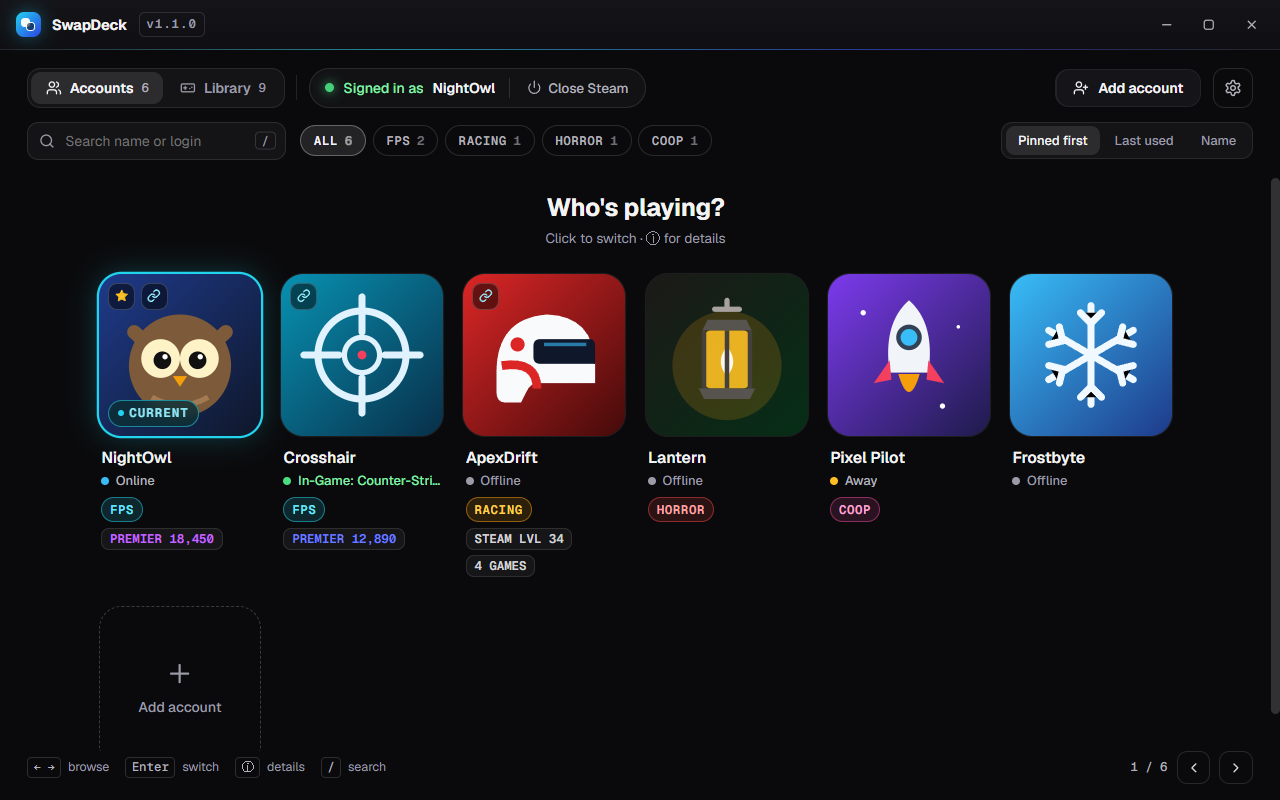
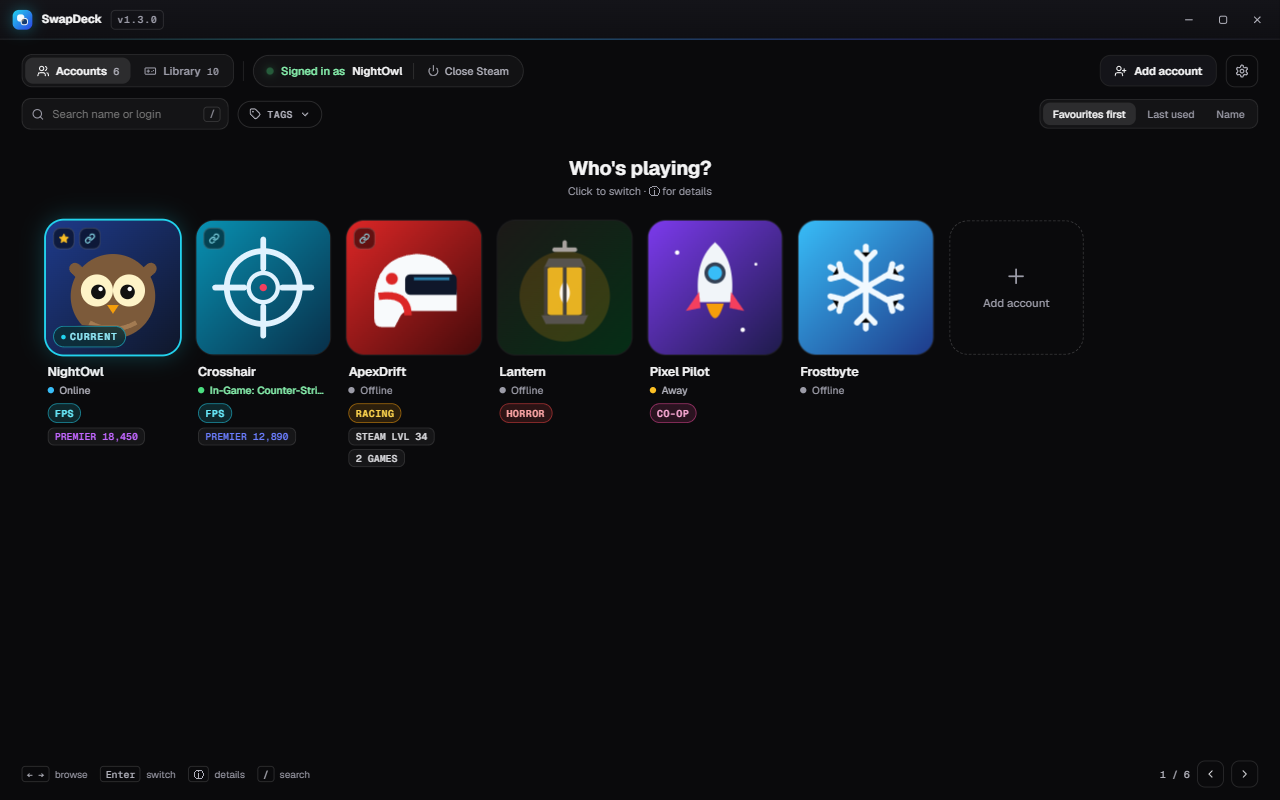
README: Steam-style game pages, patch notes reader, update badges and fresh v1.3.0 screenshots; richer browser demo

diff --git a/web/demo-backend.js b/web/demo-backend.js
@@ -3,7 +3,7 @@
 // Nothing here talks to Steam or Windows, and nothing leaves the browser.
 (() => {
   'use strict';
-  const VERSION = '1.1.0';
+  const VERSION = '1.3.0';
   const H = 3600e3, D = 24 * H, now = Date.now();
   const wait = ms => new Promise(r => setTimeout(r, ms));
   const clone = v => JSON.parse(JSON.stringify(v));
@@ -43,7 +43,7 @@
       stats: stats(21, '€3,15', 17, { premier: 12890, wins: 54, comp: { name: 'Legendary Eagle', i: 15, wins: 88 } }) }),
     acc('76561190000000102', 'apexdrift', 'ApexDrift', AV.helmet, ['racing'], 2 * D, { note: 'Sim racing. Content Manager + SimHub.', pub: pub('ApexDrift', 'offline'), stats: stats(34, '€0,00', 38) }),
     acc('76561190000000103', 'lantern_lit', 'Lantern', AV.lantern, ['horror'], 5 * D, { pub: pub('Lantern', 'offline') }),
-    acc('76561190000000105', 'pixelpilot', 'Pixel Pilot', AV.rocket, ['coop'], 14 * D, { pub: pub('Pixel Pilot', 'away') }),
+    acc('76561190000000105', 'pixelpilot', 'Pixel Pilot', AV.rocket, ['co-op'], 14 * D, { pub: pub('Pixel Pilot', 'away') }),
     acc('76561190000000106', 'frostbyte_tr', 'Frostbyte', AV.snow, [], 31 * D, { pub: pub('Frostbyte', 'offline', { trade: 'probation' }) }),
   ];
   const A = n => accounts.find(a => a.name === n);
@@ -111,6 +111,54 @@
   ];
   const gamesList = () => lib.filter(g => g.steam).map(g => ({ appid: g.appid, name: g.name, folder: g.folder, icon: null }));
   const findGame = id => lib.find(g => g.id === id);
+
+  // ---- game details (Overview) ----
+  const ACH_ICON = 'https://cdn.akamai.steamstatic.com/steamcommunity/public/images/apps/';
+  const DLC_ART = id => 'https://shared.akamai.steamstatic.com/store_item_assets/steam/apps/' + id + '/header.jpg';
+  const patchNote = (lines) => '[p]\[ ' + lines[0] + ' ][/p][list]' + lines.slice(1).map(l => '[*][p]' + l + '[/p][/*]').join('') + '[/list]';
+  const friend = (name, av, minutes) => ({ sid: '7656119' + String(1e9 + name.length * 7919 + minutes).slice(-10), name, avatar: av, minutes });
+  const DETAILS = {
+    status: { '1144200': { state: 'downloading', pct: 42, bytes: 3.4e9, staging: false } },
+    workshop: { '730': { items: 14, bytes: 1.62e9 }, '244210': { items: 37, bytes: 8.9e9 } },
+    ach: {
+      '730': { sid: A('NightOwl').sid, summary: { known: true, total: 1, unlocked: 1, latest: [{ id: 'a1', name: 'A New Beginning', desc: 'This is Counter-Strike, too.', icon: ACH_ICON + '730/f75dd04fa12445a8ec43be65fa16ff1b8d2bf82e.jpg', got: true, at: now - 410 * D }] } },
+    },
+    newsFor: {
+      '730': [
+        [20 * 60e3, 'Counter-Strike 2 Update', true, patchNote(['MAPS', 'Fixed a spot on Mirage where players could see through a wall', 'Updated the lighting in the Inferno banana area']) + patchNote(['MISC', 'Improved loading times when joining a match', 'Fixed a rare crash when changing video settings'])],
+        [2 * D, 'Counter-Strike 2 Update', true, patchNote(['GAMEPLAY', 'Smoke grenades now fade out slightly faster at the edges', 'Fixed footstep sounds sometimes playing late']) + patchNote(['CROSSHAIR', 'Added a crosshair preview on the main menu'])],
+        [5 * D, 'Counter-Strike 2 Update', true, patchNote(['PREMIER', 'Season rewards now show on your profile', 'Fixed rating changes sometimes showing the wrong number'])],
+        [9 * D, 'The Premier Season Two Update', false, '[h3]A new Premier season is here[/h3][p]Fresh ratings, a new map pool and new rewards. Play a few matches to get your rating.[/p][list][*]New map: Train returns to Active Duty[*]Season Two medal for 25 wins[*]Leaderboards reset for every region[/list]'],
+        [12 * D, 'Counter-Strike 2 Update', true, patchNote(['MISC', 'Workshop maps now download in the background', 'Fixed text overlapping in the settings menu'])],
+      ],
+      '244210': [
+        [3 * D, 'Assetto Corsa: summer racing weekend', false, '[h3]Race with the community[/h3][p]Join the weekend events on the official servers and try the new community liveries.[/p]'],
+        [20 * D, 'Assetto Corsa Update 1.16.5', true, patchNote(['PHYSICS', 'Improved tyre temperatures on long stints', 'Fixed a rare FFB spike when hitting kerbs'])],
+      ],
+    },
+    news(appid) {
+      return (this.newsFor[appid] || []).map(([ago, title, patch, body], i) => ({ gid: appid + '00' + i, title, at: now - ago, patch, author: 'Demo', body }));
+    },
+    dlc: {
+      '244210': { total: 11, items: [['675590', 'Ferrari 70th Anniversary Pack', true], ['540710', 'Porsche Pack II', true], ['540711', 'Porsche Pack III', false], ['347990', 'Dream Pack 1', true], ['404430', 'Dream Pack 2', true], ['423630', 'Dream Pack 3', false]]
+        .map(([appid, name, installed]) => ({ appid, name, art: DLC_ART(appid), installed })) },
+    },
+    local(appid) {
+      const a = this.ach[appid];
+      const shots = accounts.map(x => ({ sid: x.sid, acct: x.sid.slice(-6), count: 0, items: [], ach: a && a.sid === x.sid ? a.summary : null }));
+      return { shots, workshop: this.workshop[appid] || null };
+    },
+    connected(appid, sid) {
+      const acct = accounts.find(x => x.sid === sid);
+      if (!acct || !acct.linked) return { linked: false };
+      const recent = appid === '730' ? [friend('Crosshair', AV.cross, 1530), friend('frostbyte', AV.snow, 640), friend('Pixel Pilot', AV.rocket, 95), friend('lantern_lit', AV.lantern, 28)]
+        : appid === '244210' ? [friend('ApexDrift', AV.helmet, 860)] : [];
+      const ever = appid === '730' ? [AV.owl, AV.helmet, AV.snow, AV.rocket, AV.cross, AV.lantern].map((av, i) => friend('Steam friend ' + (i + 1), av, 0)) : [];
+      const dlc = this.dlc[appid];
+      return { linked: true, friends: { ok: true, recent, recentTotal: recent.length, ever, everTotal: ever.length + (ever.length ? 9 : 0) },
+        owned: dlc ? { ok: true, game: true, ids: dlc.items.filter((d, i) => i !== 2).map(d => d.appid) } : null };
+    },
+  };
 
   // ---- history ----
   const sessions = [
@@ -330,15 +378,14 @@
       accounts: accounts.map(a => ({ sid: a.sid, name: a.name, login: a.login, avatar: a.avatar, lastUsed: a.lastUsed, pinned: a.pinned })),
       games: lib.filter(g => g.installed).sort((a, b) => b.lastPlayed - a.lastPlayed).slice(0, 15).map(g => ({ id: g.id, name: g.name, cover: g.cover, acct: g.acct, lastPlayed: g.lastPlayed })),
     }),
-    // Game details: no Steam on a web page, so a quiet Overview with one made-up post to show the reader.
-    gameStatus: async () => ({ state: 'ok' }),
-    libUpdates: async () => ({}),
-    gameLocal: async () => ({ shots: [], workshop: null }),
-    gameAchievements: async () => null,
-    gameWeb: async () => ({ news: [{ gid: '1', title: 'Demo update', at: Date.now() - 2 * 864e5, patch: true }], dlc: { total: 0, items: [] } }),
-    newsPost: async () => ({ gid: '1', title: 'Demo update', at: Date.now() - 2 * 864e5, author: 'SwapDeck', patch: true,
-      body: '[p]In the app, this is where a game\'s real patch notes and news appear, straight from Steam.[/p][h3]What you can do[/h3][list][*]Read the whole post without leaving SwapDeck[*]Open links in Steam or your browser[*]Use Open in Steam for videos and polls[/list]' }),
-    gameConnected: async () => ({ linked: true, friends: { ok: true, recent: [], recentTotal: 0, ever: [], everTotal: 0 }, owned: null }),
+    // Game details: made-up news, achievements, friends and DLC (names and art are Steam's public store info).
+    gameStatus: async appid => clone(DETAILS.status[appid] || { state: 'ok' }),
+    libUpdates: async () => clone(DETAILS.status),
+    gameLocal: async appid => clone(DETAILS.local(appid)),
+    gameAchievements: async (appid, sid) => { const a = DETAILS.ach[appid]; return a && a.sid === sid ? clone(a.full) : null; },
+    gameWeb: async appid => ({ news: DETAILS.news(appid).map(({ body, author, ...n }) => n), dlc: clone(DETAILS.dlc[appid] || { total: 0, items: [] }) }),
+    newsPost: async (appid, gid) => clone(DETAILS.news(appid).find(n => n.gid === gid) || null),
+    gameConnected: async (appid, sid) => DETAILS.connected(appid, sid),
     openSteamPage: async () => no('Steam pages'), openSteamNews: async () => no('Steam pages'), openNewsLink: async () => no('Links'), openShotFolder: async () => no('Folders'),
     steamLaunchOpts: async id => { const g = findGame(id); return g && g.appid === '730' ? [{ sid: A('NightOwl').sid, name: 'NightOwl', opts: '-novid -high +fps_max 0' }] : []; },
     cs2Info: async sid => ({

diff --git a/web/index.html b/web/index.html
@@ -107,10 +107,10 @@
   const screenEl = document.getElementById('screen'), app = document.getElementById('app'), tray = document.getElementById('tray');
   const closed = document.getElementById('closed'), hint = document.getElementById('hint'), taskApp = document.getElementById('taskApp');
   const W = 1280, H = 800;               // the pretend window, in screen pixels
-  let scale = 1.25;                       // SwapDeck's UI scale (like Ctrl +/−)
+  let scale = 1;                          // SwapDeck's UI scale (like Ctrl +/−)
   const k = () => screenEl.clientWidth / W;
-  // Same rule as the app's auto scale for a 1280 × 800 window.
-  const autoScale = () => Math.round(Math.min(Math.max(.8, Math.min(W / 900, H / 640)) * .9, W / 900, H / 640) / .9 * 100) / 100;
+  // Same rule as the app's Auto on a 1080p screen: 100%, whatever the window size.
+  const autoScale = () => 1;
   function layout() {
     const z = Math.min(scale * .9, W / 900, H / 640);
     app.style.width = (W / z) + 'px'; app.style.height = (H / z) + 'px';

diff --git a/README.md b/README.md
@@ -5,7 +5,7 @@
 # SwapDeck
 
 **Switch Steam accounts in one click, and launch every game with the right account, monitor, resolution and sound.**<br>
-Built for people who keep separate FPS, sim racing and horror accounts.
+Built for people who keep separate FPS, sim racing and horror accounts, with a Steam-style page for every game.
 
 [![Latest release](https://img.shields.io/github/v/release/byteminite/SwapDeck?style=flat-square&color=22d3ee&label=release)](https://github.com/byteminite/SwapDeck/releases/latest) [![Downloads](https://img.shields.io/github/downloads/byteminite/SwapDeck/total?style=flat-square&color=a78bfa)](https://github.com/byteminite/SwapDeck/releases) ![Windows 10/11](https://img.shields.io/badge/Windows-10%20%2F%2011-0ea5e9?style=flat-square) [![License: MIT](https://img.shields.io/badge/license-MIT-22c55e?style=flat-square)](LICENSE) [![Built with Claude Code](https://img.shields.io/badge/built%20with-Claude%20Code-d97757?style=flat-square)](#how-its-made) [![Made in Munder Difflin](https://img.shields.io/badge/made%20in-Munder%20Difflin-f5b942?style=flat-square)](https://munderdiffl.in/)
 
@@ -22,7 +22,7 @@ https://github.com/user-attachments/assets/4ff0eb41-04a6-4f8b-8f18-f7677fd23927
     <td width="25%" valign="top" align="center"><h3>🔁</h3><b>One click to switch</b><br><sub>Every account saved in Steam. No retyping passwords, no Steam Guard codes.</sub></td>
     <td width="25%" valign="top" align="center"><h3>🎮</h3><b>Play does the setup</b><br><sub>The right account, monitor, resolution, sound and apps, then the game.</sub></td>
     <td width="25%" valign="top" align="center"><h3>↩</h3><b>Everything goes back</b><br><sub>Your normal setup returns when the game exits. Stop never closes your game.</sub></td>
-    <td width="25%" valign="top" align="center"><h3>🔒</h3><b>Stays on your PC</b><br><sub>No sign-up, no telemetry. Stats are optional and encrypted by Windows.</sub></td>
+    <td width="25%" valign="top" align="center"><h3>🔒</h3><b>Stays on your PC</b><br><sub>No sign-up, no telemetry. Stats and friends are optional and encrypted by Windows.</sub></td>
   </tr>
 </table>
 
@@ -46,7 +46,7 @@ https://github.com/user-attachments/assets/4ff0eb41-04a6-4f8b-8f18-f7677fd23927
 <h3>👥 Accounts, sorted your way</h3>
 <ul>
 <li>One-click switching from a <b>"Who's playing?"</b> picker or the classic sideways gallery</li>
-<li><b>Tags, notes and favourites</b>, with search, sorting and a tag filter where you tick as many tags as you like</li>
+<li><b>Tags, notes and favourites</b>: give each tag its own colour, then tick as many tags as you like in the <b>Tags</b> filter</li>
 <li><b>Status at a glance</b>: online / in-game, VAC and trade bans, limited accounts</li>
 <li><b>Playtime per account</b> for everything you launch through SwapDeck</li>
 <li>Add and forget accounts without digging through Steam</li>
@@ -60,13 +60,37 @@ https://github.com/user-attachments/assets/4ff0eb41-04a6-4f8b-8f18-f7677fd23927
 <li>Your installed <b>Steam games</b> with their own Steam artwork</li>
 <li>Any <b>non-Steam game</b>: if it has an <code>.exe</code>, it fits</li>
 <li>Each game remembers <b>which account</b> plays it, so Play switches for you</li>
-<li><b>Tag and star games</b> (favourites come first), filter by several tags at once, and give each tag its own colour</li>
-<li><b>Steam-style game pages</b>: update status, news and patch notes you can read in the app, screenshots, achievements, workshop, DLC and notes</li>
-<li><b>Update badges</b> on covers and in the tray when Steam is updating a game</li>
+<li><b>Tag and star games</b>: favourites come first, whatever the sort</li>
+<li><b>Update badges</b> on the covers: <i>Update queued</i>, <i>Updating 42%</i> or <i>Update failed</i>, straight from Steam</li>
 <li><b>Desktop shortcuts</b> that launch through SwapDeck with all your settings</li>
 </ul>
 </td>
 <td width="55%"><img src="docs/screenshots/04-library.png" alt="One library for everything"></td>
+</tr>
+<tr>
+<td width="55%"><img src="docs/screenshots/08-game-overview.png" alt="A Steam-style page for every game"></td>
+<td width="45%" valign="middle">
+<h3>🎮 A Steam-style page for every game</h3>
+<ul>
+<li><b>Update status</b> from Steam: up to date, downloading with progress, paused or failed</li>
+<li><b>Last played, playtime and achievements</b> at a glance, per account</li>
+<li><b>Screenshots</b>, <b>workshop</b> items and <b>DLC</b>, with one-click links to the store, hub, guides and more</li>
+<li><b>Friends who play</b> it, and which DLC the account owns (for accounts connected for stats)</li>
+<li>A <b>note</b> for each game: a crosshair code, a server IP…</li>
+</ul>
+</td>
+</tr>
+<tr>
+<td width="45%" valign="middle">
+<h3>📰 Patch notes, right in SwapDeck</h3>
+<ul>
+<li>The developer's <b>announcements and patch notes</b>, newest first</li>
+<li><b>Read the whole post</b> in the app, with headings, lists and pictures</li>
+<li>Posts since you last played are tagged <b>New</b></li>
+<li>Steam links open in Steam, trailers on YouTube, and <i>Open in Steam</i> is always there</li>
+</ul>
+</td>
+<td width="55%"><img src="docs/screenshots/10-news-reader.png" alt="Patch notes, right in SwapDeck"></td>
 </tr>
 <tr>
 <td width="55%"><img src="docs/screenshots/05-game-cs2.png" alt="Per-game setup"></td>
@@ -77,7 +101,8 @@ https://github.com/user-attachments/assets/4ff0eb41-04a6-4f8b-8f18-f7677fd23927
 <li><b>Resolution profiles</b> you make yourself, like 1280 × 960 stretched for CS2</li>
 <li><b>Sound device</b> per game, e.g. your headset</li>
 <li><b>Launch options</b>, or import the ones you already set in Steam</li>
-<li>Everything is <b>put back</b> when the game exits</li>
+<li>Your <b>note on the launch screen</b> when you press Play, with a <i>Copy</i> button</li>
+<li>Everything is <b>put back</b> when the game exits. It's all behind the ⚙ gear on the game's page</li>
 </ul>
 </td>
 </tr>
@@ -112,7 +137,7 @@ https://github.com/user-attachments/assets/4ff0eb41-04a6-4f8b-8f18-f7677fd23927
 <li><b>Connect for stats</b> with Steam's own sign-in (QR code, password or token)</li>
 <li>CS2 <b>Premier rating</b>, Competitive and Wingman ranks, level and medals</li>
 <li>Games and hours, Steam level, wallet balance and friends</li>
-<li><b>Friends who play</b> each game, and which of its DLC the account owns</li>
+<li><b>Friends who play</b> each game, with their hours, and which of its DLC the account owns</li>
 <li>Completely optional. Switching works without it</li>
 </ul>
 </td>
@@ -126,7 +151,7 @@ https://github.com/user-attachments/assets/4ff0eb41-04a6-4f8b-8f18-f7677fd23927
 <li><b>Dark, OLED Black or Light</b>, with accent colours or your Windows accent</li>
 <li>The accent can <b>follow the running game's tag</b></li>
 <li>Choose the <b>grid or gallery</b> accounts layout, and whether SwapDeck opens on Accounts or Library</li>
-<li>UI scale from 80% to 150%, or <b>Auto</b>, which fits 1080p, 1440p and 4K screens</li>
+<li><b>Auto UI scale</b> that fits 1080p, 1440p and 4K screens (a bigger window shows more, not bigger), or pick 80% to 150%</li>
 </ul>
 </td>
 </tr>
@@ -138,8 +163,8 @@ https://github.com/user-attachments/assets/4ff0eb41-04a6-4f8b-8f18-f7677fd23927
 
 <table>
   <tr>
-    <td width="33%" valign="top">🧭 <b>Tray panel</b><br><sub>Switch accounts or start a recent game from the taskbar, or open it from any app with an optional shortcut (off by default, key of your choice)</sub></td>
-    <td width="33%" valign="top">🚀 <b>Start with Windows</b><br><sub>Optionally straight to the tray</sub></td>
+    <td width="33%" valign="top">🧭 <b>Tray panel</b><br><sub>Switch accounts or start a recent game from the taskbar, with update status for each game</sub></td>
+    <td width="33%" valign="top">⌨ <b>Tray shortcut</b><br><sub>Open the tray panel from any app with <code>Ctrl + Alt + S</code>. Off by default, key of your choice</sub></td>
     <td width="33%" valign="top">🎮 <b>Controller support</b><br><sub>D-pad, A / B / X, and LB / RB to change tabs</sub></td>
   </tr>
   <tr>
@@ -151,6 +176,11 @@ https://github.com/user-attachments/assets/4ff0eb41-04a6-4f8b-8f18-f7677fd23927
     <td width="33%" valign="top">🕓 <b>Session history</b><br><sub>Who played what, when, and for how long</sub></td>
     <td width="33%" valign="top">✨ <b>Updates itself</b><br><sub>Quietly, with a What's new after each update</sub></td>
     <td width="33%" valign="top">⌨ <b>Keyboard friendly</b><br><sub>Arrows, Enter and <code>/</code> to search</sub></td>
+  </tr>
+  <tr>
+    <td width="33%" valign="top">🚀 <b>Start with Windows</b><br><sub>Optionally straight to the tray</sub></td>
+    <td width="33%" valign="top">⭐ <b>Favourites</b><br><sub>Star accounts and games, and they come first</sub></td>
+    <td width="33%" valign="top">🏆 <b>Achievements per account</b><br><sub>Latest unlocks and progress, from Steam's files on your PC. Hidden ones stay hidden</sub></td>
   </tr>
 </table>
 
@@ -171,6 +201,9 @@ https://github.com/user-attachments/assets/4ff0eb41-04a6-4f8b-8f18-f7677fd23927
 | Switch account | Click a card (grid) or double-click a panel (gallery), or select it and press `Enter` |
 | Account details | `ⓘ` on a card, or right-click |
 | Play a game | Library → hover a game → Play, or double-click |
+| Game page | Click a game in the Library. The ⚙ gear next to the close button opens its setup |
+| Read patch notes | A game's page → Activity → click a post |
+| Tray panel from anywhere | `Ctrl + Alt + S` (turn it on in Settings → General) |
 | Move around | Arrow keys, or a controller's d-pad / stick |
 | Controller | `A` select · `B` back · `X` details · `LB`/`RB` switch Accounts ↔ Library |
 | Search | `/` |
@@ -234,6 +267,7 @@ Open Settings → Displays → <b>Restore display now</b>. If you can't see Swap
 - Steam's **"Ask which account to use each time Steam starts"** blocks automatic sign-in, so SwapDeck turns it off when you switch.
 - If Steam asks for a password after a switch, that account's saved login expired. Sign in once with **Remember me** ticked.
 - CS2 stats aren't refreshed while that account is in a game, because it would kick the game session.
+- A game's **news, DLC and friends** load when you open its page and are cached for a while, so the first open takes a second.
 - **Monitors** only need to be plugged in and powered. SwapDeck can switch one on that's turned off in Windows.
 - **Resolution profiles** can only use sizes your graphics driver offers. For stretched 4:3, add the resolution as a custom
   resolution in AMD Software or the NVIDIA Control Panel, and set scaling to Full panel / Full-screen. The **Test** button
@@ -243,7 +277,8 @@ Open Settings → Displays → <b>Restore display now</b>. If you can't see Swap
 
 ```bash
 npm install
-npm start       # run from source
+npm run dev     # run from source with its own test profile (your real settings stay untouched)
+npm start       # run from source with your normal settings
 npm run dist    # build installer + portable exe into dist\
 ```
 
